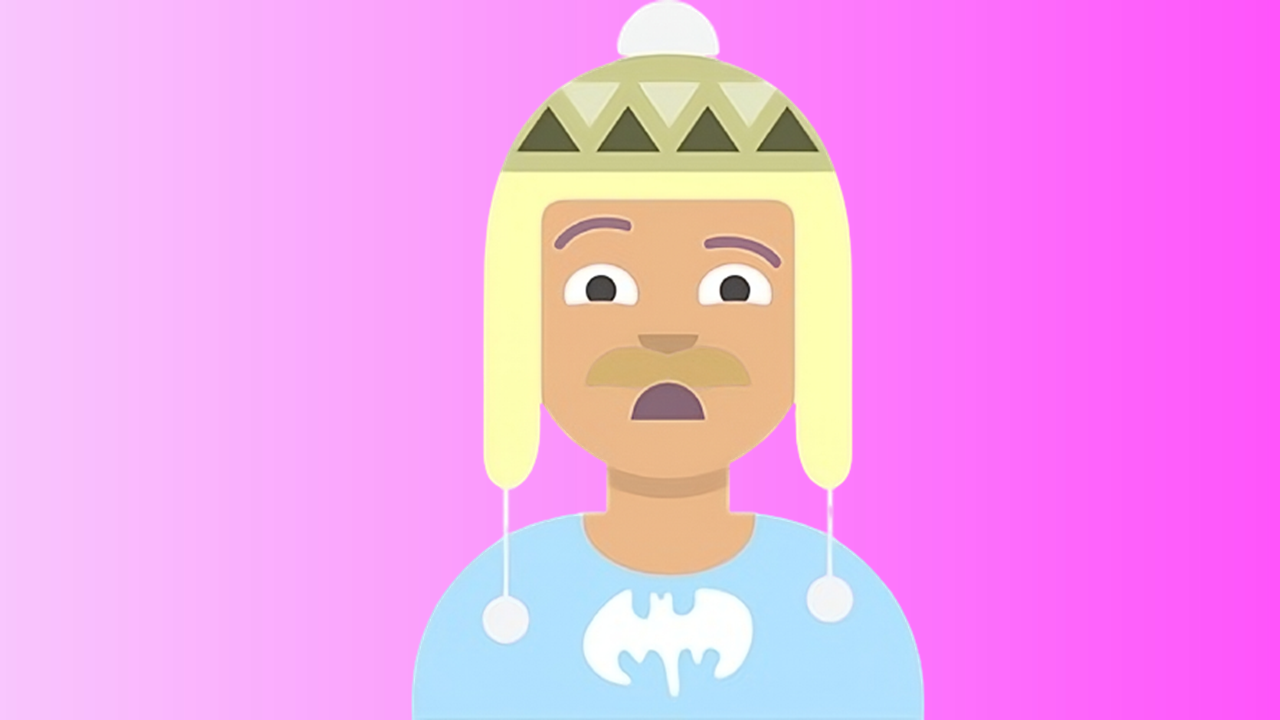
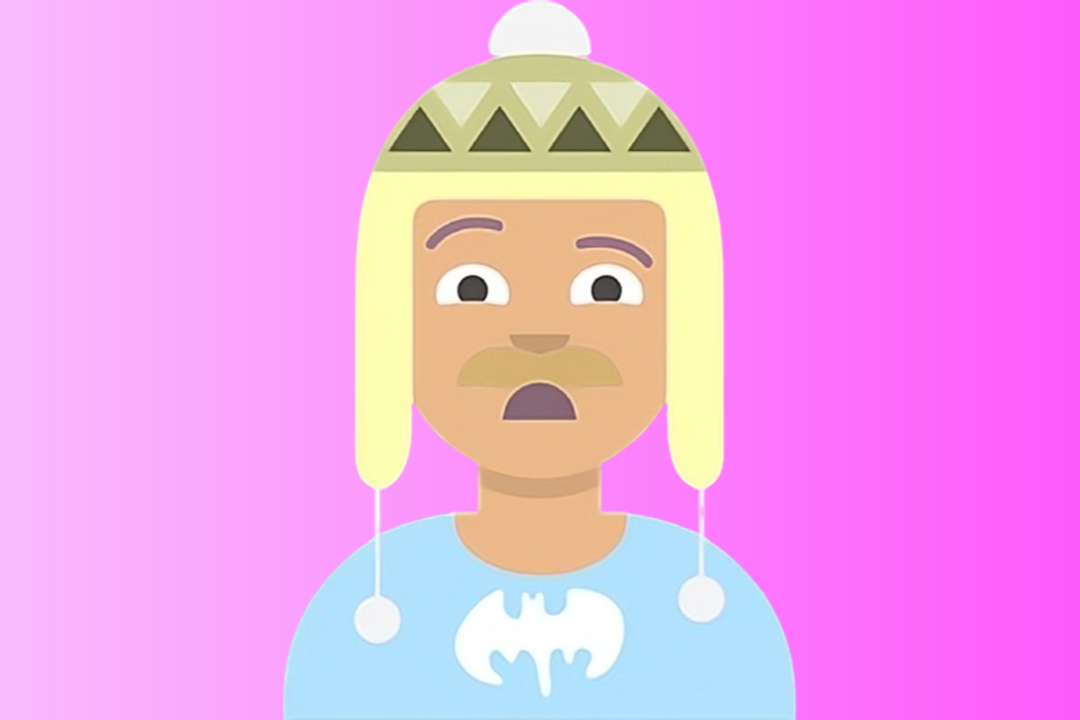
Updated project index, configured image to correct aspect ratio

diff --git a/templates/pyworks.html b/templates/pyworks.html
@@ -76,7 +76,7 @@
                         <img src="./static/assets/images/pyworks1_main.jpg" alt="" class="img-responsive">
                       </a>
                       <div class="card-container card-container-lg">
-                        <h4>001/004</h4>
+                        <h4>001/005</h4>
                         <h3>QR Generator</h3>
                         <p>A fun piece of code that allows you to generate a QR-code for any link.</p>
                         <a href="./pywork1.html" title="" class="btn btn-default">Discover</a>
@@ -87,7 +87,7 @@
                         <img src="./static/assets/images/pyworks2.jpg" alt="" class="img-responsive">
                       </a>
                       <div class="card-container card-container-lg">
-                        <h4>002/004</h4>
+                        <h4>002/005</h4>
                         <h3>Password Checker</h3>
                         <p>A interactive tool that allows you to test whether a password has been breached.</p>
                         <a href="./pywork2.html" title="" class="btn btn-default">Discover</a>
@@ -98,7 +98,7 @@
                         <img src="./static/assets/images/pyworks3.jpg" alt="" class="img-responsive">
                       </a>
                       <div class="card-container card-container-lg">
-                        <h4>003/004</h4>
+                        <h4>003/005</h4>
                         <h3>Spaceflight News - Web Scraper</h3>
                         <p>This python script scrapes the Spaceflight News Homepage for articles and links regarding rocket launches.</p>
                         <a href="./pywork3.html" title="" class="btn btn-default">Discover</a>
@@ -117,7 +117,7 @@
                       <img src="./static/assets/images/pywork4.jpg" alt="Image" class="img-responsive">
                     </a>
                     <div class="card-container">
-                      <h4>004/004</h4>
+                      <h4>004/005</h4>
                       <h3>Color Gradient Tool</h3>
                       <p>A simple tool that allows you to generate color gradients and use them in your own css code.</p>
                       <a href="./pywork4.html" class="btn btn-default">Discover</a>
